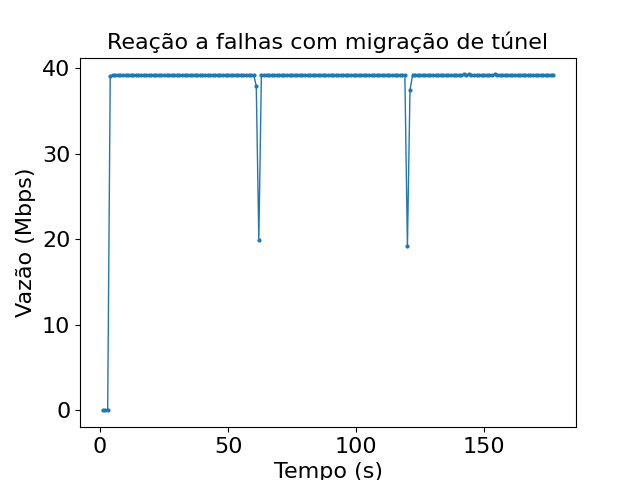
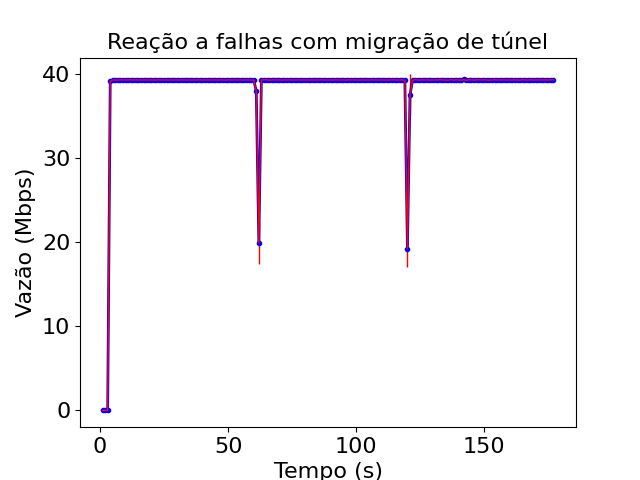
gráficos com desvio padrão

diff --git a/artigo/test2/grafico.py b/artigo/test2/grafico.py
@@ -34,15 +34,16 @@ for taxa in [40]:
 			if cont > 177:
 				break
 	m=[]
+	d=[]
 	for cont in range(0,len(y)):
 		m.append(numpy.mean(y[cont]))
-	plt.plot(x, m, linewidth=1, marker='o', markersize=2)
+		d.append(numpy.std(y[cont]))
+	plt.errorbar(x,m,yerr=d, fmt='-', linewidth=1, color='red')
+	plt.plot(x, m, linewidth=2, marker='o', markersize=3, color='blue')
 	print(f'a{sample}: OK')
 	plt.xlabel('Tempo (s)') 
 	plt.ylabel('Vazão (Mbps)') 
 	plt.title(f'Reação a falhas com migração de túnel')
-	#current_values = plt.gca().get_yticks().tolist()
-	#plt.gca().set_yticklabels(['{:.0f}'.format(x) for x in current_values])
 	plt.savefig(f'results/run{run}/{taxa}.png')
 	plt.clf()
 

diff --git a/artigo/test1/grafico.py b/artigo/test1/grafico.py
@@ -23,11 +23,13 @@ for sample in range(0,6):
 		y[cont].append(float(ms))
 		cont=cont+1
 m=[]
+d=[]
 for cont in range(0,len(y)):
 	m.append(numpy.mean(y[cont]))
+	d.append(numpy.std(y[cont]))
 
-#plt.errorbar(x,m,yerr=d, fmt='-')
-plt.plot(x, m, linewidth=1, marker='o', markersize=2 )
+plt.errorbar(x,m,yerr=d, fmt='-', linewidth=1, color='red')
+plt.plot(x, m, linewidth=2, marker='o', markersize=3, color='blue')
 plt.xlabel('Tempo (s)') 
 plt.ylabel('Latência (ms)') 
 plt.title('Diminuição da latência com migração de túnel')
